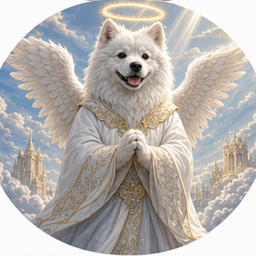
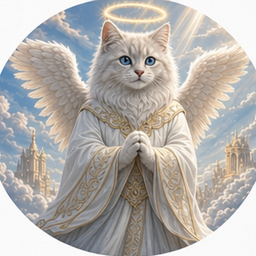
Add cats to pet portraits — swap half the style examples + lifestyle photo
Cat owners are a large audience but the pet page showed only dogs.

- Replaced 6 of 12 style medallions (pirate, wizard, viking, mermaid,
  angel, princess) with cat versions, cropped from the supplied grids
  and centered for the circular frames. The grid now shows a balanced
  mix of cats and dogs across both the landing page and the wizard.
- Swapped the couch "perfect gift" lifestyle photo for a cat owner with
  her cat in a pirate-cat tee; updated its alt text.

Claude-Session: https://claude.ai/code/session_01LFDUqxaFcjGx1aUaAGvvtb

diff --git a/src/pages/PetLandingPage.vue b/src/pages/PetLandingPage.vue
@@ -137,7 +137,7 @@ const FAQS = [
         </div>
         <div class="lp-story__row lp-story__row--reverse">
           <div class="lp-story__photo">
-            <img src="/images/pet-lifestyle/cozy.jpg" alt="A woman relaxing on the couch with her dog, wearing a pirate pet portrait shirt" loading="lazy" />
+            <img src="/images/pet-lifestyle/cozy.jpg" alt="A woman relaxing on the couch with her cat, wearing a pirate cat portrait shirt" loading="lazy" />
           </div>
           <div class="lp-story__text">
             <p class="eyebrow">The perfect gift</p>
